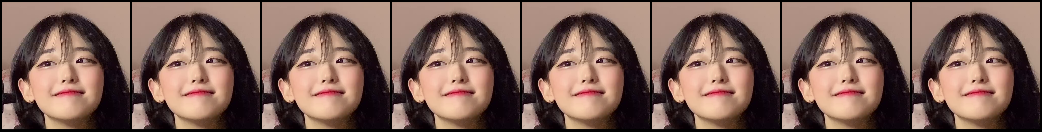
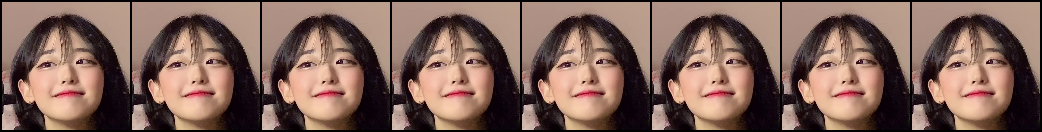
f

diff --git a/t.py b/t.py
@@ -70,12 +70,30 @@ img = np.transpose(img, [2, 0, 1]).astype(np.float32)
 img /= 255.
 img = torch.from_numpy(img).contiguous().to("cuda")
 
-transform = RandAugment(2, 7)
+
+class GPUAugment:
+    def __init__(self, transforms):
+        self.transforms = transforms
+
+    def __call__(self, x):
+        for op in self.transforms:
+            x = torch.stack([op(_) for _ in x])
+        return x
+
+# transform = RandAugment(2, 7)
+import kornia.augmentation as KA
+
+gpu_transforms = GPUAugment([
+    KA.RandomAffine(30, translate=0.1, shear=0.3, p=0.5, same_on_batch=True),
+    KA.ColorJiggle(0.1, 0.1, 0.1, 0.1, p=0.5, same_on_batch=True),
+    KA.RandomHorizontalFlip(p=0.5, same_on_batch=True),
+    # KE.Normalize(mean=mean / 255, std=std / 255),
+])
 
 from einops import rearrange, repeat
 
 img = repeat(img, "c h w -> b t c h w", b=4, t=8)
-img = transform(img)
+img = gpu_transforms(img)
 
 from torchvision.utils import save_image
 

diff --git a/datasets/e2e_lib/__init__.py b/datasets/e2e_lib/__init__.py
@@ -90,8 +90,8 @@ def make_img_transform(is_training, resize=110, crop=96, mean=127.5, std=127.5, 
 
     gpu_transforms = None
     gpu_transforms = GPUAugment([
-        KA.RandomRotation(30, same_on_batch=True),
-        # KA.,
+        KA.RandomAffine(30, translate=0.1, shear=0.3, p=0.5, same_on_batch=True),
+        KA.ColorJiggle(0.1, 0.1, 0.1, 0.1, p=0.5, same_on_batch=True),
         KA.RandomHorizontalFlip(p=0.5, same_on_batch=True),
         KE.Normalize(mean=mean / 255, std=std / 255),
     ])
